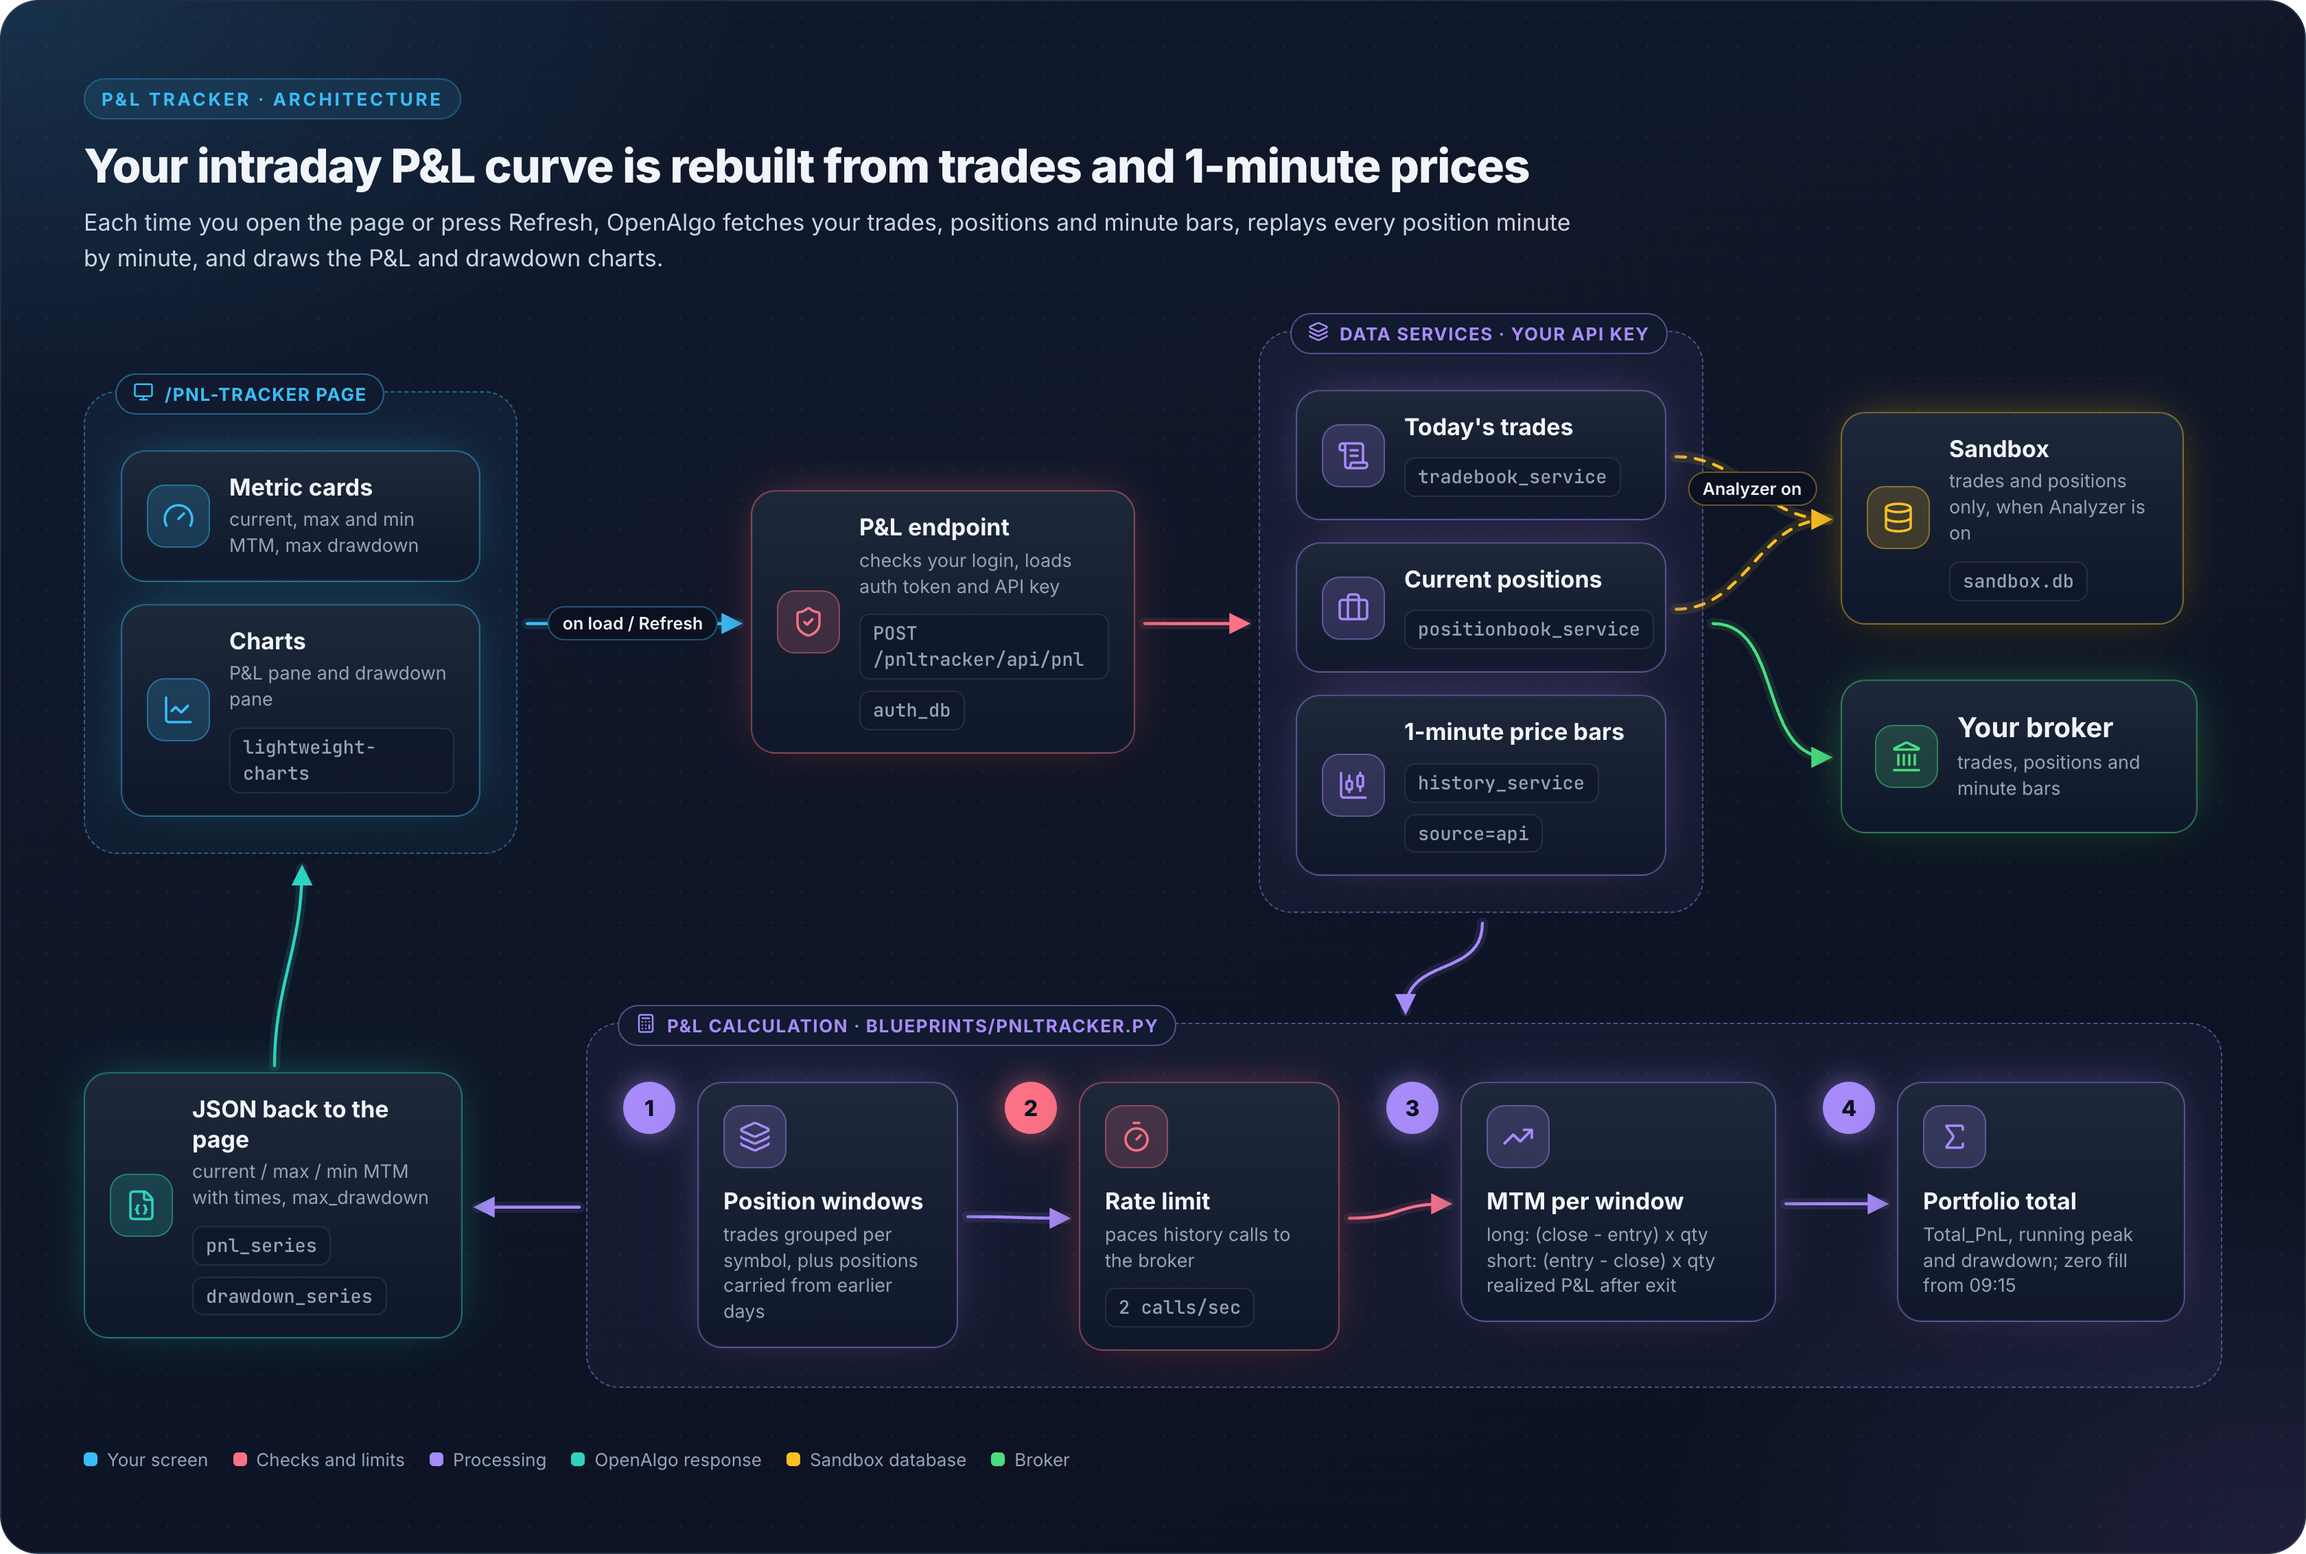
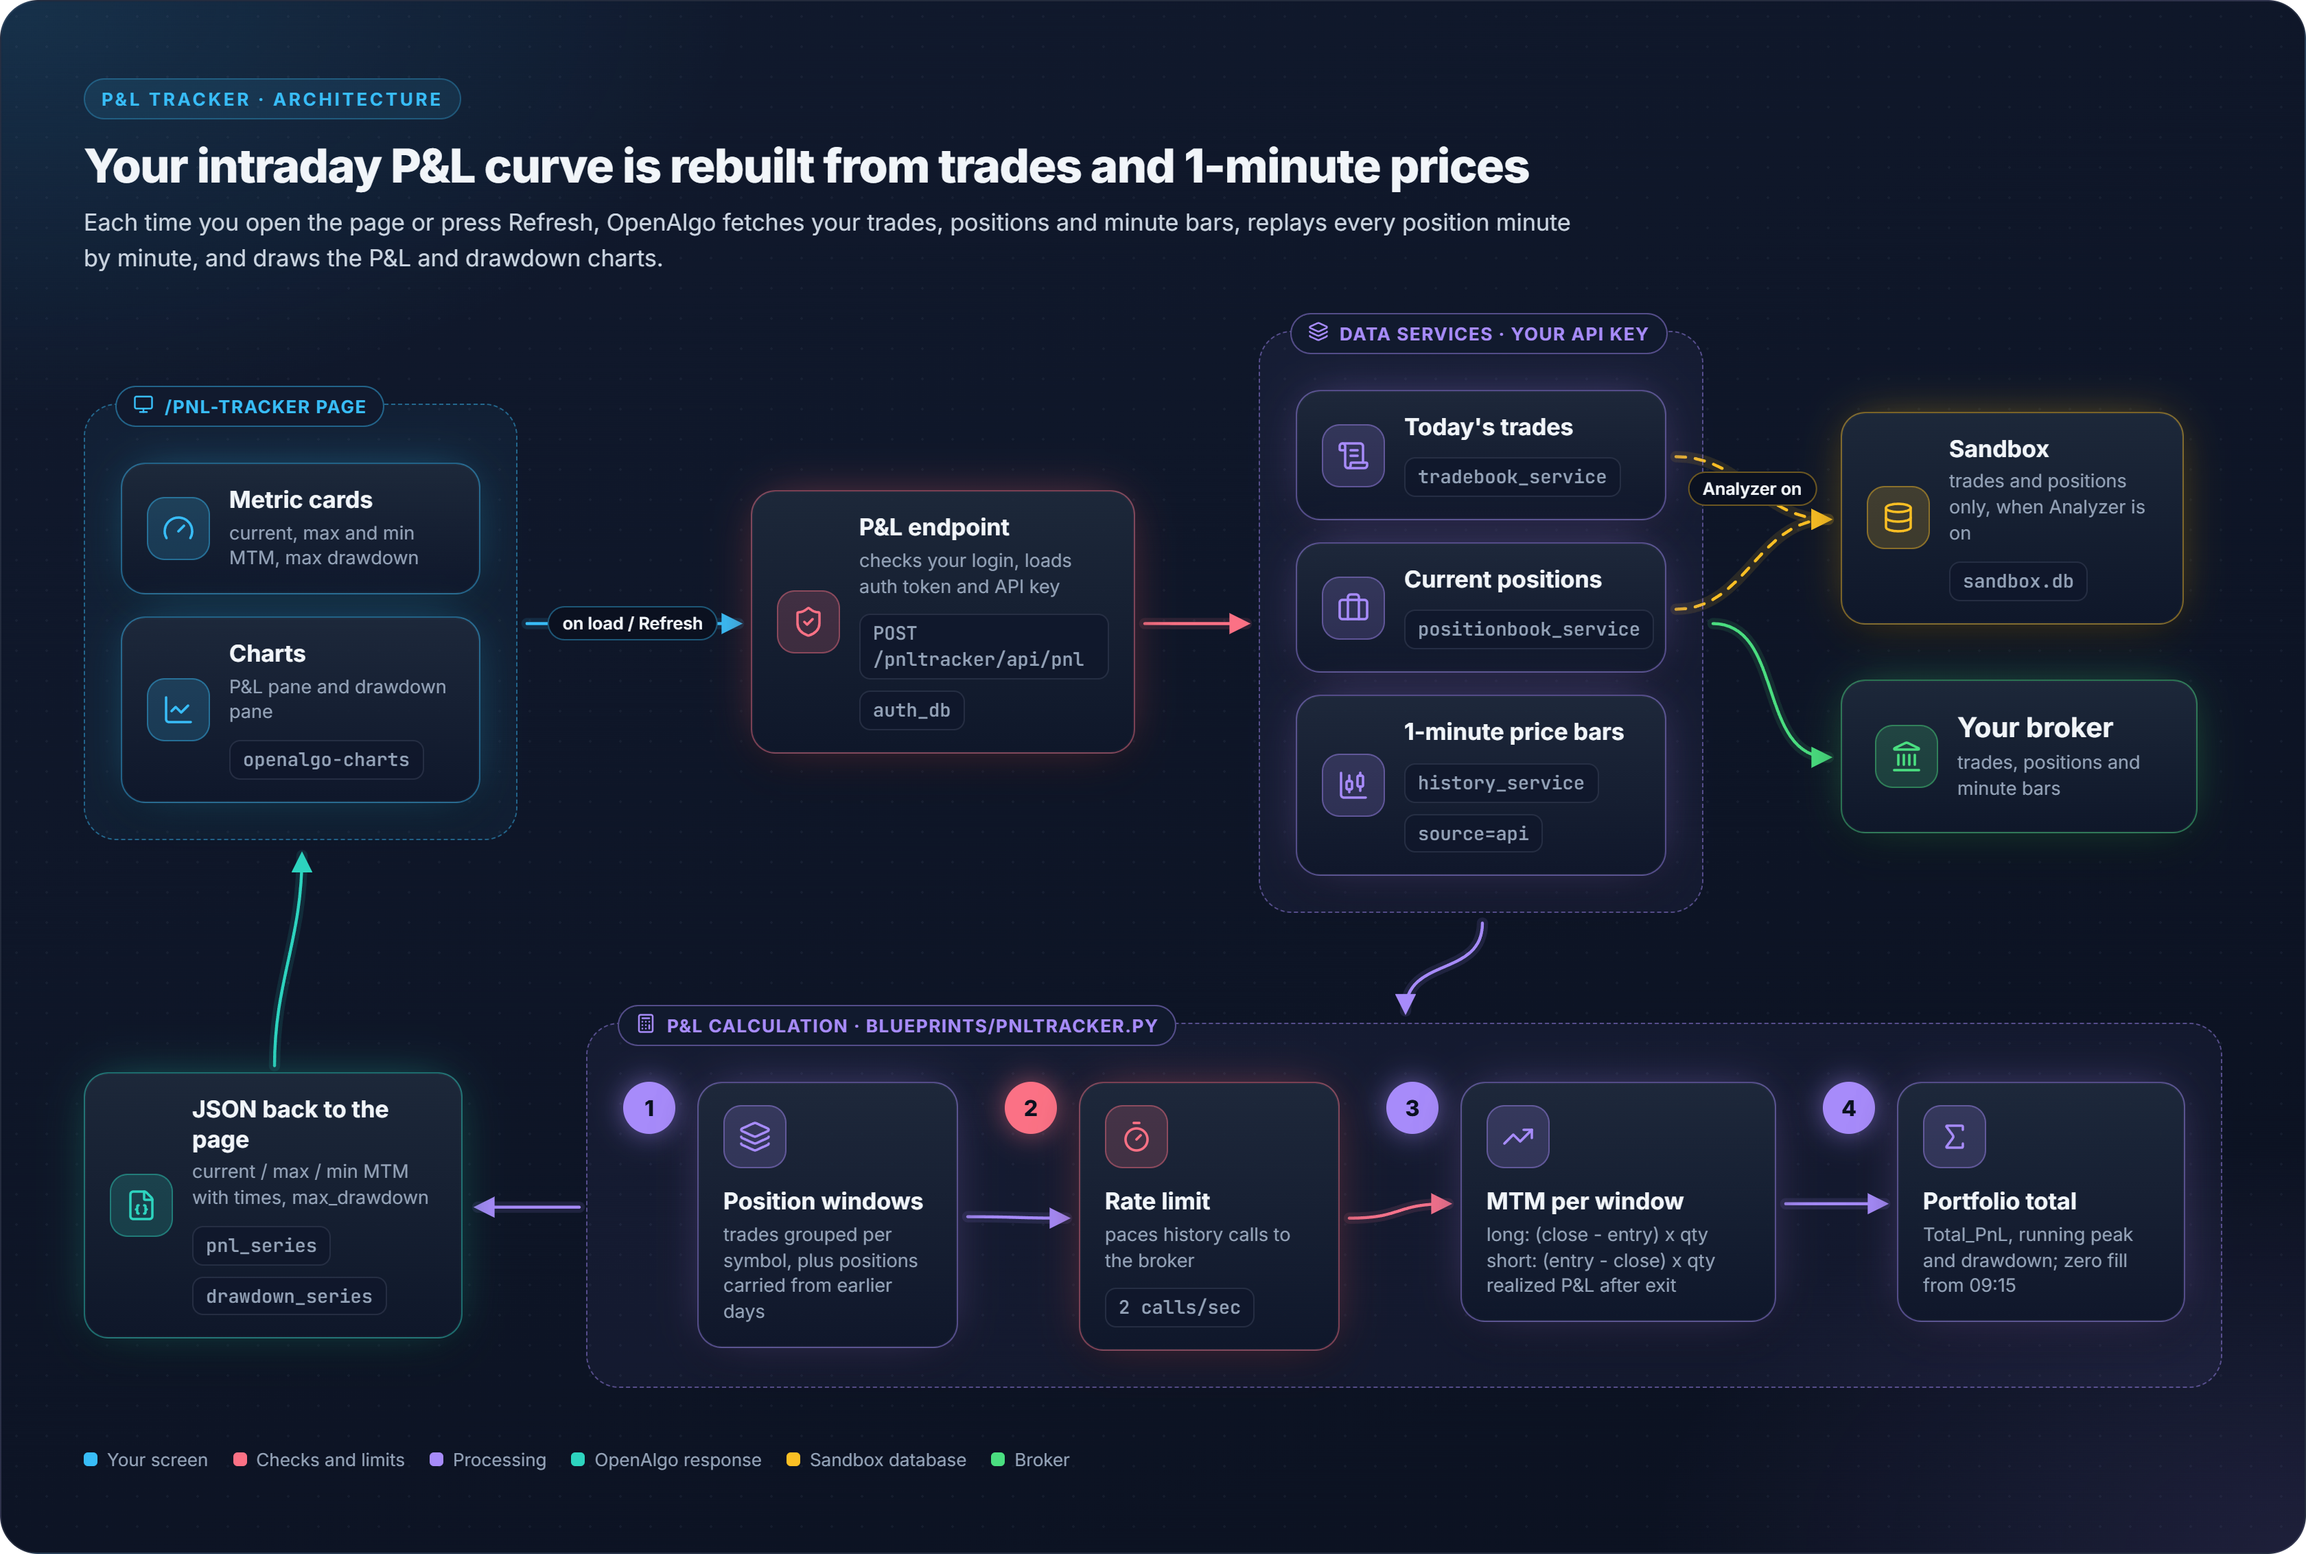
docs: every chart is drawn by openalgo-charts; lightweight-charts is gone
OpenAlgo has moved all of its charts (the scalping terminal, PnL tracker,
straddle, IV and health monitor charts) to openalgo-charts and removed
lightweight-charts (openalgo #2297 to #2304). These pages still named the
old library.

- PnL tracker guide: the chart follows light, dark and analyzer mode and
  restyles in place on a theme switch, without reloading your P&L.
- PnL tracker design doc: names openalgo-charts, and corrects "polls
  periodically" to what the page does, which is load on open and on
  Refresh.
- Scalping terminal design doc: matches the openalgo repo's own copy
  (bar time shift removed where a bar reaches the engine, no volume on
  index charts, lazy-loaded engine, shortcuts off for order keys).
- Frontend architecture stack table and contributors guide.
- PnL tracker architecture diagram: the Charts box now reads
  openalgo-charts. Source edited and the PNG re-rendered with the kit.

Changed region(s): [[0.0625, 0.3092, 0.1875, 0.5256], [0.0312, 0.2473, 0.1562, 0.2783], [0.125, 0.5565, 0.1562, 0.5875]]

diff --git a/diagrams/pnl-tracker-architecture.html b/diagrams/pnl-tracker-architecture.html
@@ -14,7 +14,7 @@
           <div class="tx"><b>Metric cards</b><span>current, max and min MTM, max drawdown</span></div></div>
         <div class="node client" id="chart" style="width:262px"><div class="ic" data-icon="chart-line"></div>
           <div class="tx"><b>Charts</b><span>P&amp;L pane and drawdown pane</span>
-            <div class="chips"><span class="chip">lightweight-charts</span></div></div></div>
+            <div class="chips"><span class="chip">openalgo-charts</span></div></div></div>
       </div>
     </div>
 

diff --git a/developers/design-documentation/54-scalping-terminal.md b/developers/design-documentation/54-scalping-terminal.md
@@ -13,7 +13,7 @@
 | `services/scalping_risk_monitor_service.py` | Long-lived tick evaluation and reducing exits |
 | `frontend/src/pages/Scalping.tsx` | Terminal interaction and state composition |
 | `frontend/src/api/scalping.ts` | Typed blueprint client |
-| `frontend/src/components/scalping/ScalpChart.tsx` | Candles and volume |
+| `frontend/src/components/scalping/ScalpChart.tsx` | Candles, volume, OHLC legend and candle countdown, drawn with openalgo-charts |
 | `frontend/src/components/scalping/SetSLDialog.tsx` | Stop/target/trailing configuration |
 
 ## Session APIs
@@ -41,9 +41,9 @@ Analyzer/live mode is read from the global application setting and used to segre
 
 The page uses the shared browser market-data manager for ticks and Socket.IO order events for throttled order/trade/position refresh. Stale ticks can fall back to multi-quotes. Client filtering keeps displayed book entries scoped to the current day when timestamps are parseable.
 
-History supports `1m`, `5m`, and `15m` with lookbacks of 1, 3, and 9 trading days. Returned chart times are shifted for Lightweight Charts' UTC rendering so displayed bars align with IST. Indices can legitimately have zero volume.
+History supports `1m`, `5m`, and `15m` with lookbacks of 1, 3, and 9 trading days. Returned bar times carry a +5:30 shift (IST wall-clock seconds), which `ScalpChart` uses for its bucket arithmetic. It removes the shift where it hands a bar to openalgo-charts, which takes real UTC seconds and renders them in IST itself. Indices carry zero volume, so their charts draw no volume bars and no volume readout, as `/trading` does for index symbols.
 
-Charts are off by default because three live charts create additional subscriptions and history reconciliation. The charts toggle and timeframe are stored in browser local storage.
+Charts are off by default because three live charts create additional subscriptions and history reconciliation. `ScalpChart` is lazy-loaded, so the charting engine is only downloaded once a trader turns charts on. The engine's keyboard shortcuts are disabled on these charts because the scalper places orders on the arrow keys. The charts toggle and timeframe are stored in browser local storage.
 
 ## Persisted Stops
 

diff --git a/contributors.md b/contributors.md
@@ -57,7 +57,7 @@ OpenAlgo uses a **Python Flask** backend with a **React 19** single-page applica
 * **TanStack Query 5** - Server state management
 * **Zustand 5** - Client state management
 * **React Router 8** - Client-side routing
-* **Plotly.js / Lightweight Charts** - Data visualization
+* **Plotly.js / OpenAlgo Charts** - Data visualization
 * **Socket.IO Client** - Real-time communication
 * **Biome.js** - Fast linter and formatter
 * **Vitest** - Unit testing framework
@@ -503,7 +503,7 @@ More advanced contributions:
    * Add new data sources
 3. **React Frontend Features**
    * Build new pages or components
-   * Add data visualizations with Plotly/Lightweight Charts
+   * Add data visualizations with Plotly/OpenAlgo Charts
    * Improve real-time updates via Socket.IO
 4. **Performance Optimization**
    * Optimize database queries

diff --git a/new-features/pnl-tracker.md b/new-features/pnl-tracker.md
@@ -29,7 +29,7 @@ Two Baseline series are drawn in **separate panes**, split three to one in favou
 | MTM PnL, below break-even | Upper (3 parts) | Red |
 | Drawdown from peak | Lower (1 part) | Amber |
 
-The chart is built on TradingView Lightweight Charts v5 and follows the application theme, so it redraws when you switch between light and dark.
+The chart is drawn by OpenAlgo Charts, the same engine as the trading terminal, and follows the application theme in light, dark and analyzer mode. Switching the theme restyles the chart in place without reloading your P&L.
 
 A camera control captures the metrics and the chart together as a single image for sharing or journalling.
 

diff --git a/developers/design-documentation/44-pnl-tracker.md b/developers/design-documentation/44-pnl-tracker.md
@@ -163,9 +163,9 @@ The PnL tracker relies on these services (no dedicated database):
 **Location:** `frontend/src/pages/PnLTracker.tsx`
 
 The React frontend:
-- Polls `/pnltracker/api/pnl` periodically
+- Loads `/pnltracker/api/pnl` when the page opens and again on Refresh
 - Renders metrics cards (current MTM, max, min, drawdown)
-- Uses LightWeight Charts for interactive P&L visualization
+- Draws the P&L curve with openalgo-charts, the engine the /trading terminal uses
 - Shows separate drawdown chart below main chart
 
 ### Legacy Compatibility Route

diff --git a/developers/design-documentation/architecture.md b/developers/design-documentation/architecture.md
@@ -13,7 +13,7 @@ The frontend is a React 19 TypeScript SPA built with Vite 8. Current package con
 | Icons | Lucide React |
 | Forms/editors | Radix primitives, CodeMirror 6 through `@uiw/react-codemirror` |
 | Flow canvas | XYFlow 12 |
-| Charts | Plotly 3 (`plotly.js-dist-min`) and Lightweight Charts 5 |
+| Charts | Plotly 3 (`plotly.js-dist-min`) and openalgo-charts (every price and time-series chart) |
 | Live app events | Socket.IO client 4 |
 | Language | TypeScript 7 |
 | Tests | Vitest 4, Testing Library, axe, Playwright |
